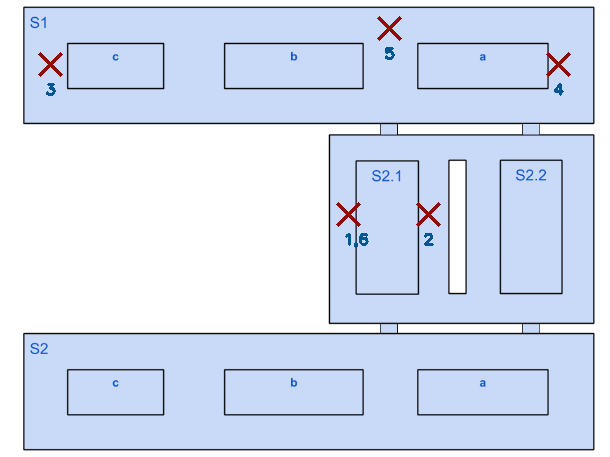
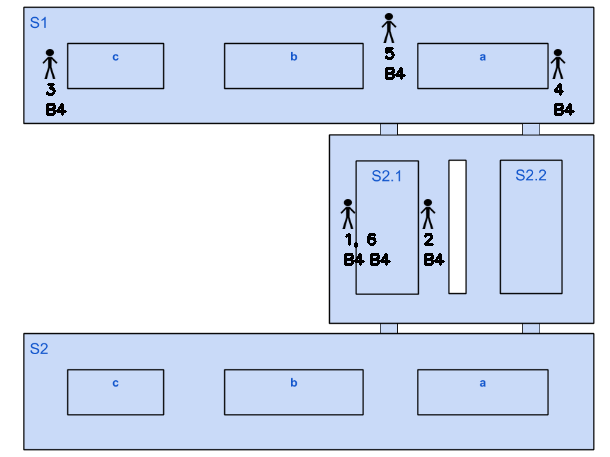
changed crosses to stickman

diff --git a/plotting/floormap_cross_stickman.py b/plotting/floormap_cross_stickman.py
@@ -1,0 +1,86 @@
+from .camera_mapping import get_cluster_position, get_cluster
+import cv2
+import numpy
+
+background= r'../assets/images/overview_B3_cluster_1.png'
+logo= 'stickman.png'
+
+
+def transparentOverlay(src, overlay, pos=(0, 0), scale=0.7):
+    """
+    :param src: Input Color Background Image
+    :param overlay: transparent Image (BGRA)
+    :param pos:  position where the image to be blit.
+    :param scale : scale factor of transparent image.
+    :return: Resultant Image
+    """
+    overlay = cv2.resize(overlay, (0, 0), fx=scale, fy=scale)
+    h, w, _ = overlay.shape  # Size of foreground
+    rows, cols, _ = src.shape  # Size of background Image
+    y, x = pos[0], pos[1]  # Position of foreground/overlay image
+
+    # loop over all pixels and apply the blending equation
+    for i in range(h):
+        for j in range(w):
+            if x + i >= rows or y + j >= cols:
+                continue
+            alpha = float(overlay[i][j][3] / 255.0)  # read the alpha channel
+            src[x + i][y + j] = alpha * overlay[i][j][:3] + (1 - alpha) * src[x + i][y + j]
+    return src
+
+
+def floormap_cross_numbers(img_path,camera_names, img_cord=(610,457)):
+
+    opacity=1
+
+    img= cv2.imread(img_path,-1)
+    waterImg = cv2.imread(logo, -1)
+    print(img.shape)
+    img= cv2.resize(img, img_cord)
+
+    current_cordinates=()
+    prev_cordinates=()
+    cluster_name_check=[]
+    counter=1
+    for camera in camera_names:
+        cluster_name= get_cluster(camera)
+        current_cordinates= get_cluster_position(cluster_name)
+        current_cordinates= tuple(int(s) for s in current_cordinates)
+        if prev_cordinates==current_cordinates:
+            continue
+
+
+        # img= cv2.drawMarker(img, current_cordinates, [7,12,145], markerType=cv2.MARKER_TILTED_CROSS , markerSize=20, thickness=3)
+        font = cv2.FONT_HERSHEY_SIMPLEX
+        if cluster_name in cluster_name_check:
+            img= cv2.putText(img,", "+str(counter), tuple(numpy.subtract(current_cordinates, (-5,-30))), font, 0.5, (0,0,0), 2, cv2.LINE_4)
+            img= cv2.putText(img,"  "+camera.split('-')[1][:2], tuple(numpy.subtract(current_cordinates, (-5,-50))), font, 0.5, (0,0,0), 2, cv2.LINE_4)
+        else:
+            tempImg = img.copy()
+            print(tempImg.shape)
+
+            overlay = transparentOverlay(tempImg, waterImg, tuple(numpy.subtract(current_cordinates, (15,15))))
+            output = img.copy()
+            # apply the overlay
+            cv2.addWeighted(overlay, opacity, output, 1 - opacity, 0, img)
+            # img= cv2.drawMarker(img, current_cordinates, [7,12,145], markerType=cv2.MARKER_TILTED_CROSS , markerSize=20, thickness=3)
+            img= cv2.putText(img,str(counter), tuple(numpy.subtract(current_cordinates, (5,-30))), font, 0.5, (0,0,0), 2, cv2.LINE_4)
+            img= cv2.putText(img,camera.split('-')[1][:2], tuple(numpy.subtract(current_cordinates, (5,-50))), font, 0.5, (0,0,2), 2, cv2.LINE_4)
+
+        counter+=1
+        cluster_name_check.append(cluster_name)
+
+
+        # if prev_cordinates:
+        #     img= cv2.arrowedLine(img, prev_cordinates, current_cordinates, [255,0,0], thickness=2, tipLength=0.05, line_type=8)
+
+        prev_cordinates= current_cordinates
+
+    # cv2.imwrite('output_number_cross.png', img)
+    cv2.imwrite('static/output_number_cross.png', img)
+
+
+
+if __name__ == '__main__':
+    img_path = "/Users/rahul_mac/projects/Retrieval_Demo/assets/images/overview_B3_cluster_1.png"
+    floormap_cross_numbers(img_path, camera_names=["S21-B4-L-B", "S21-B4-R-B", "S1-B4c-T", "S1-B4c-B","S1-B4a-T","S1-B4a-B" ,"S1-B4b-R-TR" ,"S1-B4b-R-TR", "S1-B4b-R-TR", "S21-B4-L-T" ])

diff --git a/app_tabs_2.py b/app_tabs_2.py
@@ -9,7 +9,7 @@ from dash.exceptions import PreventUpdate
 import re
 from camera.retrieval import retrieval
 import cv2
-from plotting.floormap_cross_numbers import floormap_cross_numbers
+from plotting.floormap_cross_numbers import floormap_cross_stickman
 import base64
 import os
 from layout.feature_extractor_layout_sets import feature_extractor_layout_sets
@@ -536,7 +536,7 @@ def update_floormaps(n_clicks):
         line_traces, final_camera_list= calculate_line_trace(camera_dict_list)
 
         img_path= "./assets/images/overview_B3_cluster_1.png"
-        floormap_cross_numbers(img_path, final_camera_list)
+        floormap_cross_stickman(img_path, final_camera_list)
 
         df_line_traces= line_traces
 
@@ -570,7 +570,7 @@ def update_floormaps(n_clicks):
 @app.callback(Output('experimental_section', 'children'),
                         [Input('floormaps_graph', 'hoverData')])
 def update_experiments(hoverData):
-    map_name= hoverData['points'][0]['hovertext']
+    # map_name= hoverData['points'][0]['hovertext']
     # image_1= random.choice(["marker_s2_B4_L.png","marker_s2_B4_R.png", "marker_s2.1_B4_R.png", "marker_s2.1_B4_T.png"])
     return html.Div(html.Img(src='static/output_number_cross.png?t='+str(datetime.now()), style={'max-width':'750px',
     'max-height':'750px'}), style={'textAlign':'center'})
